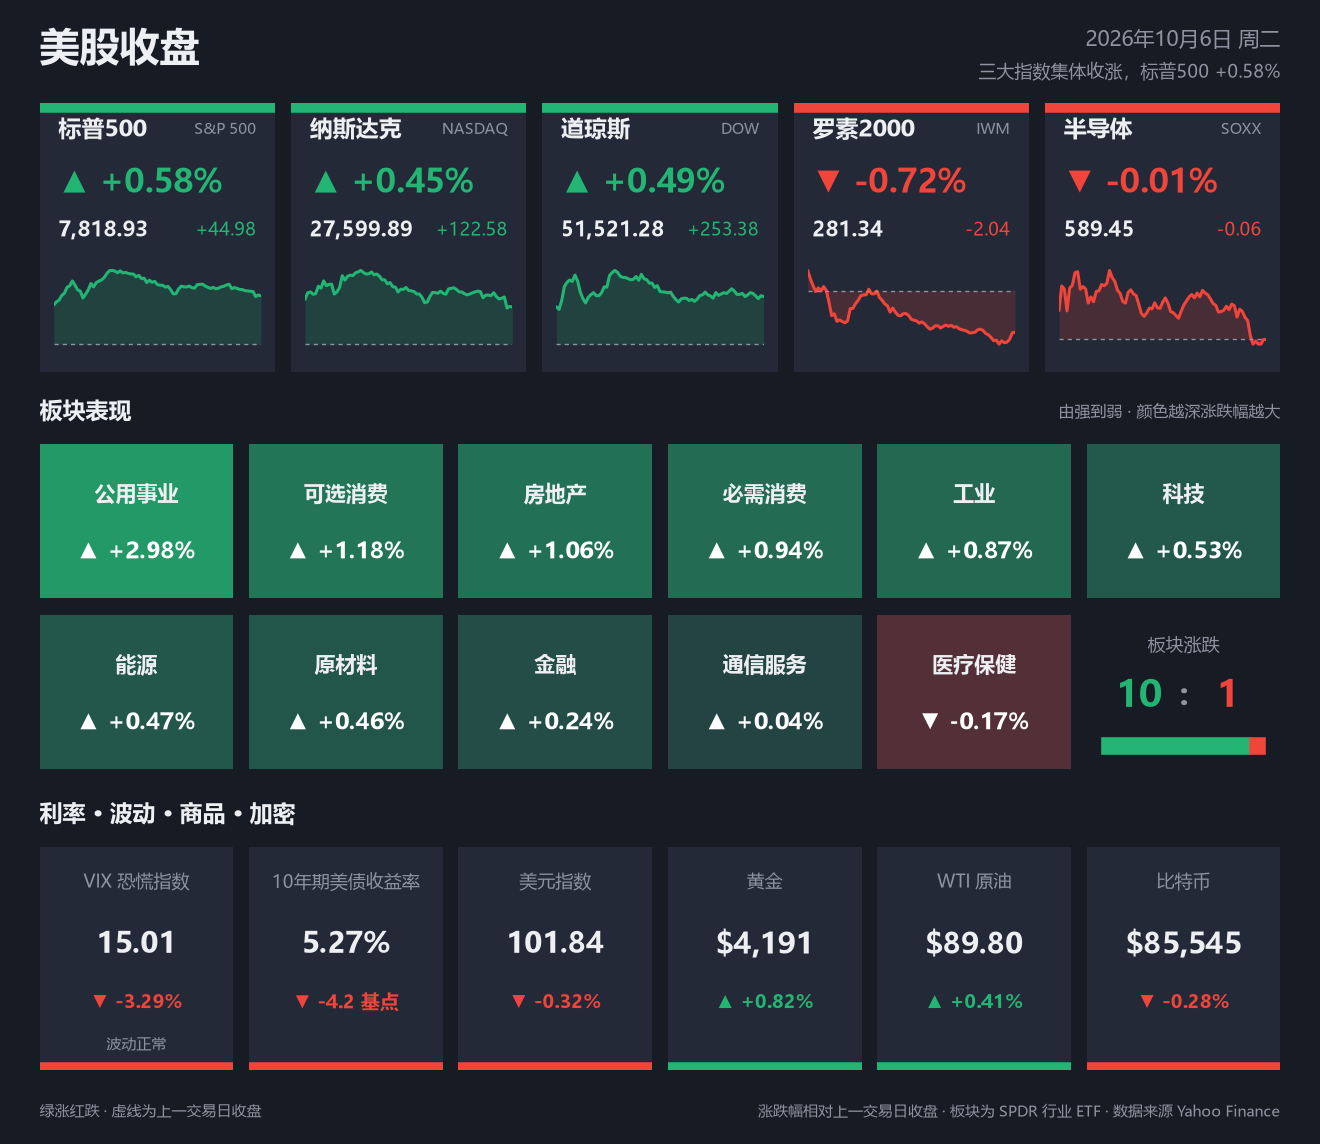
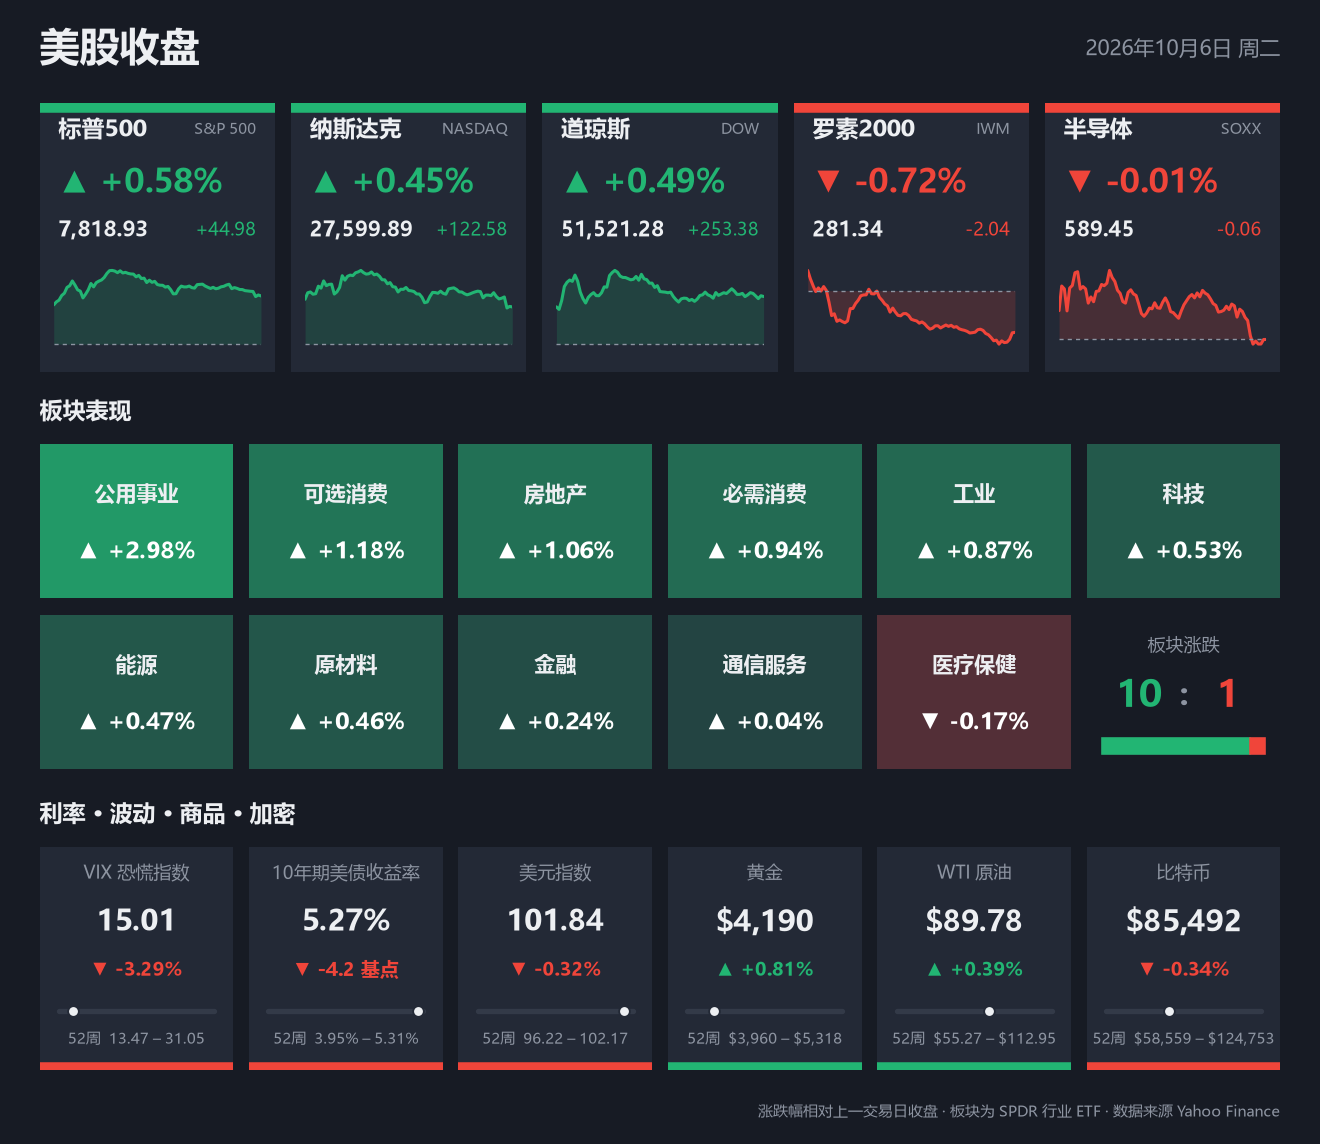
Market close: add 52-week ranges to macro tiles, trim captions
- Each macro tile shows the 52-week low and high of its daily closes with a
  marker for where the latest close sits
- Remove the headline sentence, the heat map note and the colour legend

diff --git a/market_pulse/market_close.py b/market_pulse/market_close.py
@@ -1,7 +1,7 @@
 """Daily US market close summary for a Chinese-language channel.
 
 One image in Chinese: index tiles with intraday sparklines, a sector heat map
-and macro tiles. The message text is just the session date.
+and macro tiles with 52-week ranges. The message text is just the session date.
 
 Usage:
     python -m market_pulse.market_close
@@ -55,7 +55,6 @@ INDICES = [
     ("IWM", "罗素2000", "IWM"),
     ("SOXX", "半导体", "SOXX"),
 ]
-MAIN_INDICES = ("^GSPC", "^IXIC", "^DJI")
 
 # Sectors are tracked through the Select Sector SPDR ETFs.
 SECTORS = [
@@ -85,6 +84,7 @@ MACRO = [
 
 ALL_SYMBOLS = [row[0] for row in INDICES + SECTORS + MACRO]
 INTRADAY_SYMBOLS = [row[0] for row in INDICES]
+RANGE_SYMBOLS = [row[0] for row in MACRO]
 
 WEEKDAYS = "一二三四五六日"
 
@@ -179,6 +179,14 @@ def load_quotes():
     return {symbol: quote for symbol, quote in quotes.items() if quote}
 
 
+def parse_range(entry):
+    """(low, high) of a year of daily closes, or None if unusable."""
+    if not isinstance(entry, dict):
+        return None
+    closes = [c for c in entry.get("close") or [] if isinstance(c, (int, float))]
+    return (min(closes), max(closes)) if len(closes) >= 20 else None
+
+
 def load_intraday():
     """Sparklines are decoration: a failure here must not block the summary."""
     try:
@@ -187,6 +195,17 @@ def load_intraday():
         print(f"Intraday fetch failed, drawing tiles without sparklines: {exc!r}")
         return {}
     return {symbol: parse_intraday(payload.get(symbol)) for symbol in INTRADAY_SYMBOLS}
+
+
+def load_ranges():
+    """52-week ranges for the macro tiles. Decoration too: never blocks the summary."""
+    try:
+        payload = fetch_spark(RANGE_SYMBOLS, "1y", "1d")
+    except Exception as exc:
+        print(f"52-week range fetch failed, drawing macro tiles without ranges: {exc!r}")
+        return {}
+    ranges = {symbol: parse_range(payload.get(symbol)) for symbol in RANGE_SYMBOLS}
+    return {symbol: value for symbol, value in ranges.items() if value}
 
 
 def market_traded_today(quotes, now=None):
@@ -230,16 +249,6 @@ def format_date(session_date):
     return f"{session_date.year}年{session_date.month}月{session_date.day}日 周{WEEKDAYS[session_date.weekday()]}"
 
 
-def vix_mood(level):
-    if level < 15:
-        return "市场平静"
-    if level < 20:
-        return "波动正常"
-    if level < 30:
-        return "情绪紧张"
-    return "市场恐慌"
-
-
 def sector_rows(quotes):
     """(name, pct) for every sector with data, best first."""
     rows = [(name, quotes[symbol]["change_pct"]) for symbol, name in SECTORS if symbol in quotes]
@@ -250,22 +259,6 @@ def breadth(rows):
     up = sum(1 for _, pct in rows if direction(pct) > 0)
     down = sum(1 for _, pct in rows if direction(pct) < 0)
     return up, down
-
-
-def build_headline(quotes):
-    """One sentence on how the three main indices closed."""
-    moves = [direction(quotes[s]["change_pct"]) for s in MAIN_INDICES if s in quotes]
-    if not moves:
-        return "美股收盘"
-    if all(m > 0 for m in moves):
-        tone = "三大指数集体收涨"
-    elif all(m < 0 for m in moves):
-        tone = "三大指数集体收跌"
-    else:
-        tone = "三大指数涨跌不一"
-
-    sp500 = quotes.get("^GSPC")
-    return f"{tone}，标普500 {format_pct(sp500['change_pct'])}" if sp500 else tone
 
 
 # ============================================================
@@ -378,26 +371,39 @@ def draw_breadth_tile(fig, font, rect, rows):
     ax.add_patch(mpatches.Rectangle((0.92 - 0.84 * down / total, 0.10), 0.84 * down / total, 0.10, color=DOWN))
 
 
-def draw_macro_tile(fig, font, rect, name, value_format, kind, quote, note=None):
+def draw_range(ax, font, value_format, price, low, high):
+    """52-week low and high with a marker for where the latest close sits between them."""
+    low, high = min(low, price), max(high, price)
+    bar_left, bar_right, bar_y = 0.10, 0.90, 0.265
+    position = (price - low) / (high - low) if high > low else 0.5
+
+    ax.plot([bar_left, bar_right], [bar_y, bar_y], color=RULE, linewidth=3.5, solid_capstyle="round")
+    ax.plot([bar_left + (bar_right - bar_left) * position], [bar_y], marker="o", markersize=7,
+            color=TEXT, markeredgecolor=PANEL, markeredgewidth=1.2)
+
+    # Two dollar signs in one string would switch Matplotlib into math mode.
+    label = f"52周  {value_format.format(low)} – {value_format.format(high)}".replace("$", r"\$")
+    ax.text(0.5, 0.135, label, fontproperties=font(9.5), color=MUTED, ha="center", va="center")
+
+
+def draw_macro_tile(fig, font, rect, name, value_format, kind, quote, year_range=None):
     ax = tile(fig, rect)
-    ax.text(0.5, 0.84, name, fontproperties=font(11.5), color=MUTED, ha="center", va="center")
+    ax.text(0.5, 0.88, name, fontproperties=font(11.5), color=MUTED, ha="center", va="center")
     if not quote:
-        ax.text(0.5, 0.45, "暂无数据", fontproperties=font(12), color=MUTED, ha="center", va="center")
+        ax.text(0.5, 0.50, "暂无数据", fontproperties=font(12), color=MUTED, ha="center", va="center")
         return
     color = change_color(quote["change"])
-    ax.text(0.5, 0.56, value_format.format(quote["price"]), fontproperties=font(19, bold=True),
+    ax.text(0.5, 0.66, value_format.format(quote["price"]), fontproperties=font(19, bold=True),
             color=TEXT, ha="center", va="center")
-    ax.text(0.5, 0.30, f"{arrow(quote['change'])} {format_macro_change(quote, kind)}",
+    ax.text(0.5, 0.445, f"{arrow(quote['change'])} {format_macro_change(quote, kind)}",
             fontproperties=font(12.5, bold=True), color=color, ha="center", va="center")
-    if note:
-        ax.text(0.5, 0.11, note, fontproperties=font(9.5), color=MUTED, ha="center", va="center")
+    if year_range:
+        draw_range(ax, font, value_format, quote["price"], *year_range)
     ax.add_patch(mpatches.Rectangle((0, 0), 1, 0.03, color=color))
 
 
-def section_title(fig, font, y, title, note=""):
+def section_title(fig, font, y, title):
     fig.text(0.03, y, title, fontproperties=font(15, bold=True), color=TEXT, ha="left", va="center")
-    if note:
-        fig.text(0.97, y, note, fontproperties=font(10.5), color=MUTED, ha="right", va="center")
 
 
 def grid(left, right, columns, gap):
@@ -405,7 +411,7 @@ def grid(left, right, columns, gap):
     return [left + i * (width + gap) for i in range(columns)], width
 
 
-def draw_card(quotes, intraday, session_date, out_path=OUTPUT_FILE):
+def draw_card(quotes, intraday, ranges, session_date, out_path=OUTPUT_FILE):
     font = Fonts()
     fig = plt.figure(figsize=(12, 10.4))
     fig.patch.set_facecolor(BG)
@@ -413,8 +419,7 @@ def draw_card(quotes, intraday, session_date, out_path=OUTPUT_FILE):
 
     # Header
     fig.text(left, 0.957, "美股收盘", fontproperties=font(26, bold=True), color=TEXT, ha="left", va="center")
-    fig.text(right, 0.965, format_date(session_date), fontproperties=font(14), color=MUTED, ha="right", va="center")
-    fig.text(right, 0.937, build_headline(quotes), fontproperties=font(12), color=MUTED, ha="right", va="center")
+    fig.text(right, 0.957, format_date(session_date), fontproperties=font(14), color=MUTED, ha="right", va="center")
 
     # Indices: one tile each, with the session's intraday path
     xs, width = grid(left, right, len(INDICES), gap)
@@ -424,7 +429,7 @@ def draw_card(quotes, intraday, session_date, out_path=OUTPUT_FILE):
 
     # Sectors: heat map, best to worst in reading order
     rows = sector_rows(quotes)
-    section_title(fig, font, 0.640, "板块表现", "由强到弱 · 颜色越深涨跌幅越大")
+    section_title(fig, font, 0.640, "板块表现")
     xs, width = grid(left, right, 6, gap)
     tile_height, top = 0.135, 0.612
     cells = [(xs[i % 6], top - tile_height - (i // 6) * (tile_height + gap * 1.2)) for i in range(12)]
@@ -436,12 +441,9 @@ def draw_card(quotes, intraday, session_date, out_path=OUTPUT_FILE):
     section_title(fig, font, 0.288, "利率 · 波动 · 商品 · 加密")
     xs, width = grid(left, right, len(MACRO), gap)
     for x, (symbol, name, value_format, kind) in zip(xs, MACRO):
-        quote = quotes.get(symbol)
-        note = vix_mood(quote["price"]) if quote and symbol == "^VIX" else None
-        draw_macro_tile(fig, font, [x, 0.065, width, 0.195], name, value_format, kind, quote, note)
+        draw_macro_tile(fig, font, [x, 0.065, width, 0.195], name, value_format, kind,
+                        quotes.get(symbol), ranges.get(symbol))
 
-    legend = "红涨绿跌" if RED_UP else "绿涨红跌"
-    fig.text(left, 0.028, f"{legend} · 虚线为上一交易日收盘", fontproperties=font(10), color=MUTED, ha="left", va="center")
     fig.text(right, 0.028, "涨跌幅相对上一交易日收盘 · 板块为 SPDR 行业 ETF · 数据来源 Yahoo Finance",
              fontproperties=font(10), color=MUTED, ha="right", va="center")
 
@@ -471,7 +473,7 @@ def main():
             return
 
     session_date = datetime.fromtimestamp(quotes["^GSPC"]["bar_ts"], tz=timezone.utc).date()
-    chart_path = draw_card(quotes, load_intraday(), session_date)
+    chart_path = draw_card(quotes, load_intraday(), load_ranges(), session_date)
     embed = build_embed(quotes, session_date, chart_path.name)
 
     if DRY_RUN:

diff --git a/tests/test_market_close.py b/tests/test_market_close.py
@@ -45,6 +45,12 @@ class ParseQuoteTest(unittest.TestCase):
         self.assertEqual(mc.parse_intraday({"close": [1, 2]}), [])
         self.assertEqual(mc.parse_intraday(None), [])
 
+    def test_range_is_the_low_and_high_close(self):
+        closes = [None, 5.0] + [10.0] * 30 + [42.5, 7.0]
+        self.assertEqual(mc.parse_range({"close": closes}), (5.0, 42.5))
+        self.assertIsNone(mc.parse_range({"close": [1, 2, 3]}))
+        self.assertIsNone(mc.parse_range(None))
+
 
 class FetchSparkTest(unittest.TestCase):
     def test_symbols_are_requested_in_batches_and_merged(self):
@@ -61,10 +67,21 @@ class FetchSparkTest(unittest.TestCase):
         self.assertTrue(all(size <= mc.SPARK_BATCH_SIZE for size in batch_sizes))
         self.assertEqual(sum(batch_sizes), len(mc.ALL_SYMBOLS))
 
-    def test_intraday_failure_does_not_block_the_summary(self):
+    def test_decoration_fetch_failures_do_not_block_the_summary(self):
         with mock.patch.object(mc, "fetch_spark", side_effect=RuntimeError("down")), \
                 mock.patch("builtins.print"):
             self.assertEqual(mc.load_intraday(), {})
+            self.assertEqual(mc.load_ranges(), {})
+
+    def test_ranges_cover_the_macro_symbols_and_skip_thin_data(self):
+        year = {"close": [10 + i % 7 for i in range(250)]}
+        payload = {symbol: year for symbol in mc.RANGE_SYMBOLS}
+        payload["BTC-USD"] = {"close": [1, 2, 3]}
+        with mock.patch.object(mc, "fetch_spark", return_value=payload) as fetch:
+            ranges = mc.load_ranges()
+        fetch.assert_called_once_with(mc.RANGE_SYMBOLS, "1y", "1d")
+        self.assertEqual(ranges["^VIX"], (10, 16))
+        self.assertNotIn("BTC-USD", ranges)
 
 
 class MarketTradedTodayTest(unittest.TestCase):
@@ -100,10 +117,6 @@ class FormattingTest(unittest.TestCase):
         self.assertEqual(mc.format_date(date(2026, 10, 6)), "2026年10月6日 周二")
         self.assertEqual(mc.format_date(date(2026, 10, 11)), "2026年10月11日 周日")
 
-    def test_vix_mood_bands(self):
-        self.assertEqual([mc.vix_mood(v) for v in (12, 15, 19.9, 20, 29.9, 30, 55)],
-                         ["市场平静", "波动正常", "波动正常", "情绪紧张", "情绪紧张", "市场恐慌", "市场恐慌"])
-
     def test_heat_grows_with_the_move_and_saturates(self):
         self.assertEqual(mc.heat_color(0, 2), mc.PANEL)
         small, big, huge = (mc.heat_color(pct, 2) for pct in (0.2, 2, 9))
@@ -114,19 +127,10 @@ class FormattingTest(unittest.TestCase):
         self.assertEqual(len(mc.ALL_SYMBOLS), len(set(mc.ALL_SYMBOLS)))
         self.assertEqual(len(mc.ALL_SYMBOLS), 22)
         self.assertEqual(mc.INTRADAY_SYMBOLS, ["^GSPC", "^IXIC", "^DJI", "IWM", "SOXX"])
+        self.assertEqual(mc.RANGE_SYMBOLS, ["^VIX", "^TNX", "DX-Y.NYB", "GC=F", "CL=F", "BTC-USD"])
 
 
 class RecapTest(unittest.TestCase):
-    def test_headline_tone(self):
-        down = quote(99, 100)
-        self.assertEqual(mc.build_headline(sample_quotes()), "三大指数集体收涨，标普500 +1.00%")
-        self.assertEqual(
-            mc.build_headline(sample_quotes(**{"^GSPC": down, "^IXIC": down, "^DJI": down})),
-            "三大指数集体收跌，标普500 -1.00%",
-        )
-        self.assertEqual(mc.build_headline(sample_quotes(**{"^DJI": down})), "三大指数涨跌不一，标普500 +1.00%")
-        self.assertEqual(mc.build_headline({}), "美股收盘")
-
     def test_sectors_sorted_and_counted(self):
         quotes = sample_quotes(XLU=quote(103, 100), XLV=quote(99, 100), XLE=quote(100, 100))
         rows = mc.sector_rows(quotes)

diff --git a/README.md b/README.md
@@ -186,7 +186,7 @@ Only `truth_social` uses `hashes` and `etag`. `seen_feargreed.json` instead stor
 - Written for a Chinese-language channel: the image is labelled in Chinese and the message text is just the session date. Colours follow the US convention of green for up and red for down (`RED_UP` in the module flips it to the mainland Chinese convention). Every number also carries an arrow and a sign.
 - Five index tiles (S&P 500, Nasdaq, Dow, plus IWM for small caps and SOXX for semiconductors) show the move, the close and the session's intraday path against the previous close.
 - Sectors are tracked through the Select Sector SPDR ETFs and drawn as a heat map, strongest first, with colour depth proportional to the move.
-- A row of macro tiles covers the VIX (with a plain-language reading), the 10-year yield (move in basis points), the dollar index, gold, oil and bitcoin.
+- A row of macro tiles covers the VIX, the 10-year yield (move in basis points), the dollar index, gold, oil and bitcoin. Each tile also shows the 52-week low and high of its daily closes, with a marker for where the latest close sits between them.
 - Daily closes for all 22 symbols come from Yahoo Finance's chart endpoint in batches of 10; each move is the last daily close against the one before it.
 - The workflow installs `fonts-noto-cjk` for the Chinese labels; locally, Microsoft YaHei or PingFang is used.
 - Skips weekends and market holidays by checking that the newest S&P 500 bar belongs to today's session.
